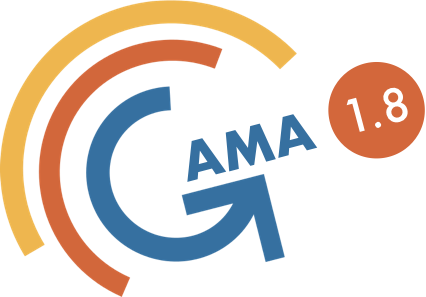
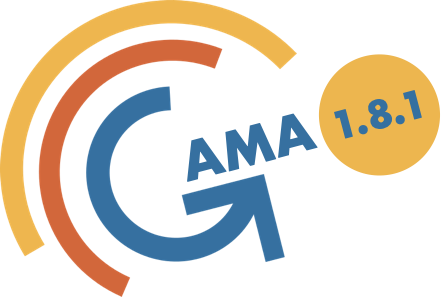
Cleans obsolete commented code and upgrades images of welcome page

diff --git a/msi.gama.core/src/msi/gaml/descriptions/SpeciesDescription.java b/msi.gama.core/src/msi/gaml/descriptions/SpeciesDescription.java
@@ -539,6 +539,15 @@ public class SpeciesDescription extends TypeDescription {
 		return getMicroSpecies().forEachValue(visitor);
 	}
 
+	// public boolean visitSortedMicroSpecies(final DescriptionVisitor<SpeciesDescription> visitor) {
+	// if (!hasMicroSpecies()) { return true; }
+	// final Iterable<SpeciesDescription> all = getSortedMicroSpecies();
+	// for (final SpeciesDescription sd : all) {
+	// if (!visitor.process(sd)) { return false; }
+	// }
+	// return true;
+	// }
+
 	@Override
 	public void setParent(final TypeDescription parent) {
 		super.setParent(parent);
@@ -749,6 +758,32 @@ public class SpeciesDescription extends TypeDescription {
 		}
 		return microSpecies;
 	}
+
+	// public Iterable<SpeciesDescription> getSortedMicroSpecies() {
+	// final GamaTree<SpeciesDescription> tree = GamaTree.withRoot(this);
+	//
+	// final Iterable<SpeciesDescription> before = microSpecies.values();
+	// DEBUG.OUT(Iterables.transform(before, each -> each.getName()));
+	// final boolean[] found = { false };
+	// for (final SpeciesDescription sd : before) {
+	// tree.visitPreOrder(tree.getRoot(), n -> {
+	// if (sd.getParent() == n.getData()) {
+	// n.addChild(sd);
+	// found[0] = true;
+	// }
+	// });
+	// if (found[0]) {
+	// found[0] = false;
+	// } else {
+	// tree.getRoot().addChild(sd);
+	// }
+	// }
+	// DEBUG.OUT(Iterables.transform(tree.list(Order.PRE_ORDER), each -> each.getData().getName()));
+	// final List<GamaNode<SpeciesDescription>> list = tree.list(Order.PRE_ORDER);
+	// list.remove(0);
+	// return Iterables.transform(list, each -> each.getData());
+	//
+	// }
 
 	public boolean isMirror() {
 		return hasFacet(MIRRORS);
